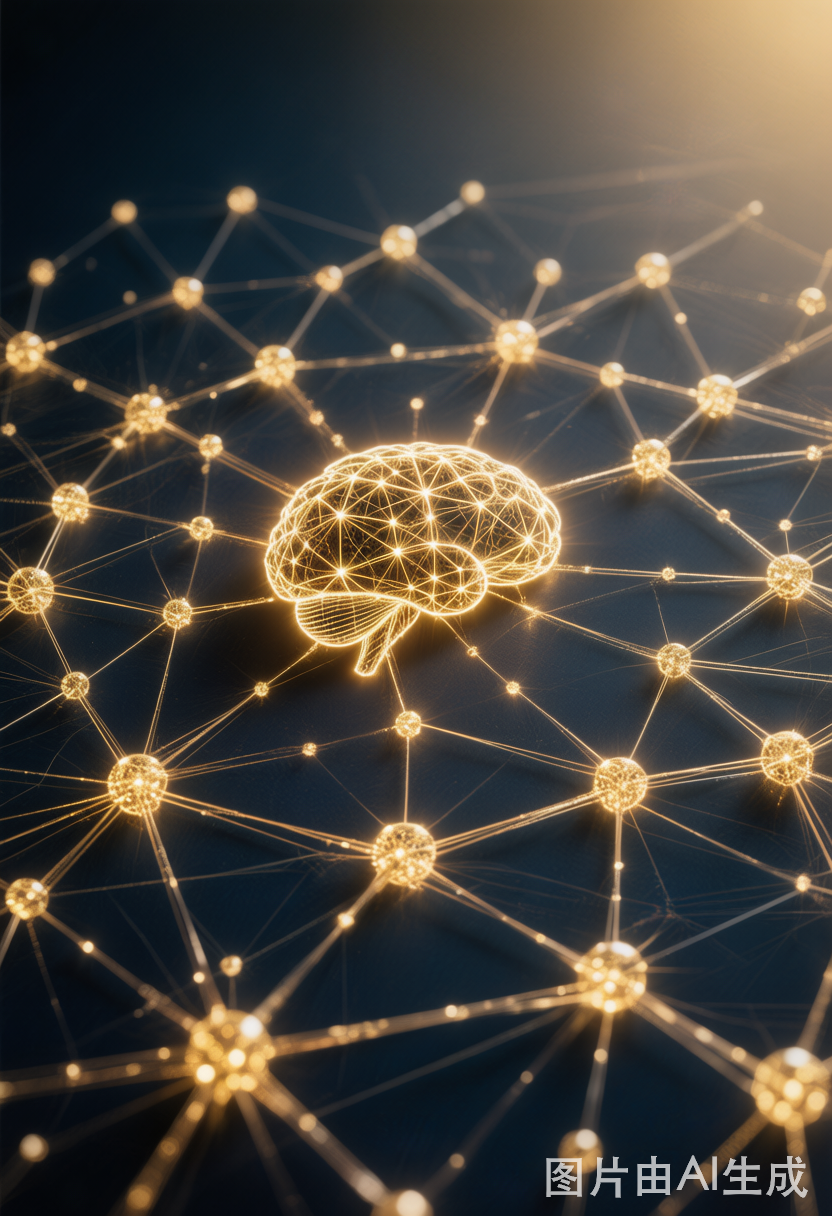
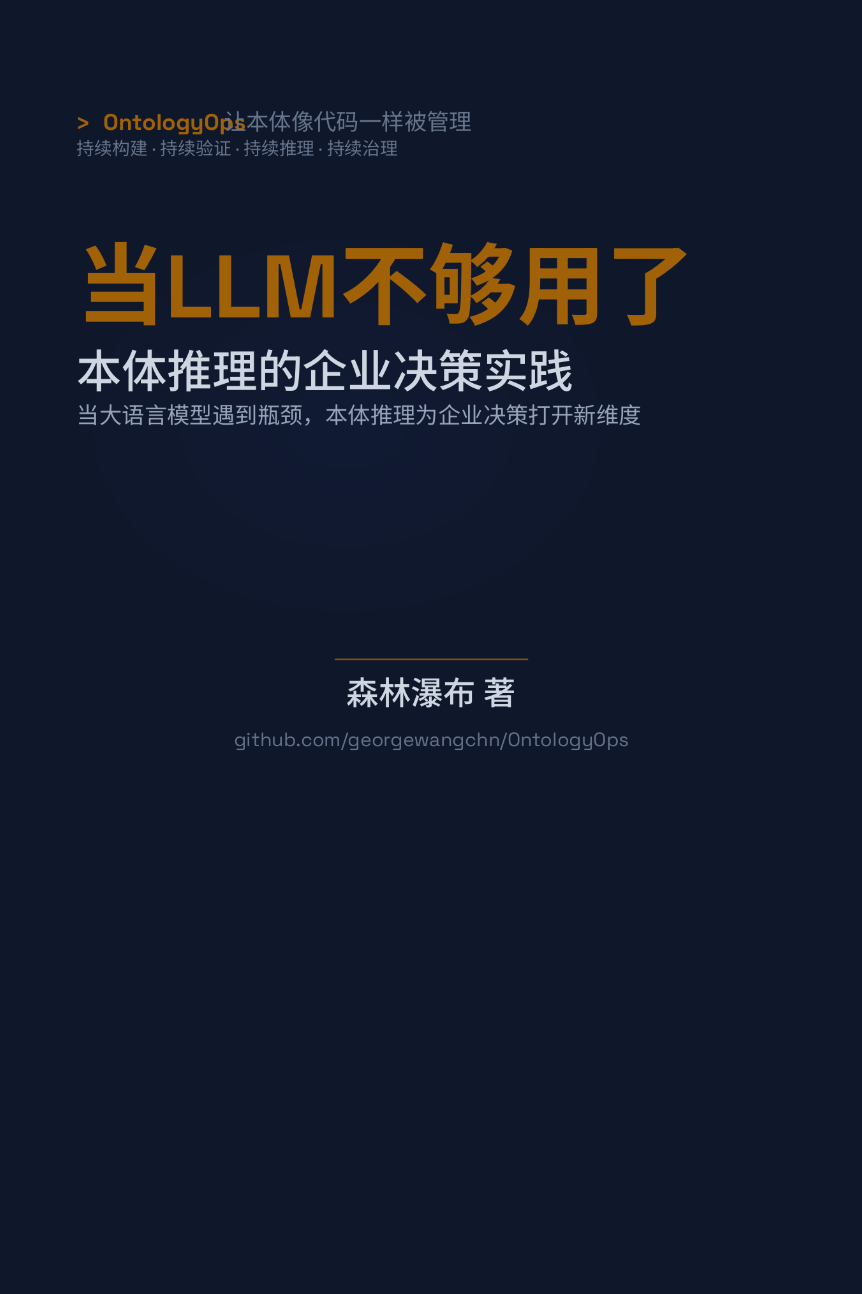
update GovernanceOps

diff --git a/LICENSE-BOOK.md b/LICENSE-BOOK.md
@@ -1,0 +1,46 @@
+# 书籍内容许可
+
+## Creative Commons 署名-非商业性使用-相同方式共享 4.0 国际 (CC BY-NC-SA 4.0)
+
+本书《当LLM不够用了——本体推理的企业决策实践》（作者：森林瀑布）的所有文字内容、
+章节、图表、案例分析等**非代码部分**，均采用 CC BY-NC-SA 4.0 许可协议。
+
+### 你可以：
+
+- **共享** — 在任何媒介以任何形式复制、发行本书内容
+- **演绎** — 修改、转换或以本书内容为基础进行创作
+
+### 但必须遵守以下条件：
+
+- **署名** — 必须给出适当的署名（作者：森林瀑布），提供指向本许可协议的链接，
+  同时标明是否对原始内容作了修改。你可以用任何合理的方式来署名，
+  但不得以任何方式暗示许可人认可你或你的使用。
+- **非商业性使用** — 不得将本书内容用于**商业目的**。
+  商业目的包括但不限于：将全书或部分章节作为付费产品出售、
+  用于商业培训课程教材、用于商业咨询服务中的付费内容分发、
+  将翻译版作为付费电子书上架等。
+- **相同方式共享** — 如果你再混合、转换或者基于本书内容进行创作，
+  你必须基于与原先许可协议相同的许可协议分发你贡献的作品。
+- **没有附加限制** — 不得适用法律术语或者技术措施从而限制其他人做许可协议允许的事情。
+
+### 完整协议文本
+
+https://creativecommons.org/licenses/by-nc-sa/4.0/legalcode.zh-Hans
+
+---
+
+## 声明
+
+1. 本书**代码部分**（包括但不限于 `build_epub.py`、`build_pdf.py`、
+   `generate_book.py`、`csdn_publish.py` 以及 `ontologyops/` 目录下的
+   所有 Python/配置文件）使用 **MIT 许可协议**，详见仓库根目录的 `LICENSE` 文件。
+
+2. 本书中提及的公司名称、产品名称和商标均为其各自所有者的财产。
+   案例分析基于公开资料编写，不代表相关公司的官方立场。
+
+3. 如果你希望在商业场景中使用本书内容（例如：企业内部分发、作为培训教材出售等），
+   请通过 GitHub Issues 联系作者获取商业授权。
+
+---
+
+Copyright © 2026 森林瀑布. All rights reserved for commercial use.